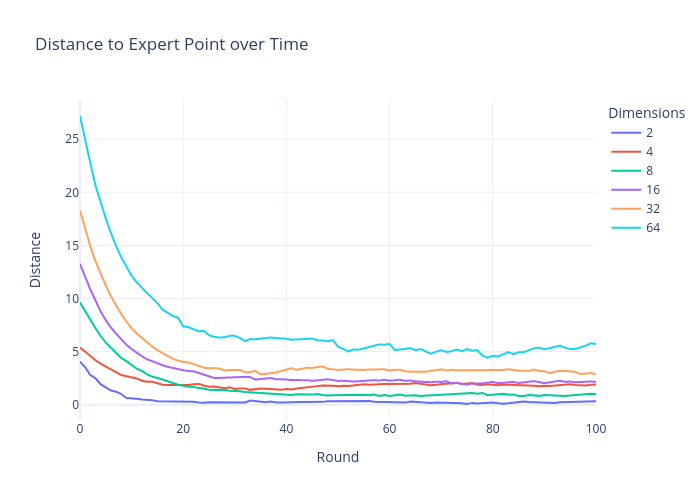
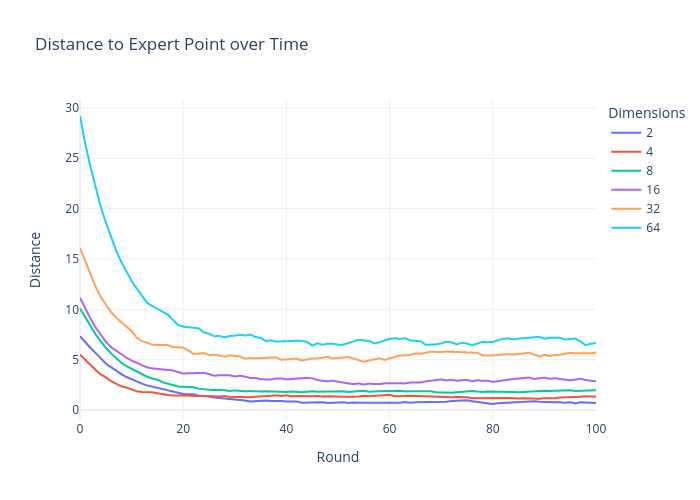
minor updates

Changed region(s): [[0.09, 0.21, 0.87, 0.81], [0.21, 0.6, 0.24, 0.63], [0.09, 0.81, 0.12, 0.84]]

diff --git a/graphing.py b/graphing.py
@@ -17,22 +17,17 @@ from copy import deepcopy
 NUM_USER_POINTS = 10
 NUM_OF_ROUNDS = 100
 DELTA = 0.1
+EXPERT_POINT_SUBSET_SIZE = 3
 
 # Initialization
 def initialize_points(dimension):
     model_point = np.random.uniform(0, 10, size= dimension)
     user_points = np.random.uniform(0, 10, size=(NUM_USER_POINTS, dimension))
 
-    # random subset of 5 user points
+    # expert point is centroid of random subset of user points
     users_shuffled = np.random.permutation(list(range(len(user_points))))
-    user_group = users_shuffled[:len(users_shuffled) // 2]
-    centroid = np.mean(user_points[user_group], axis=0)
-    expert_point = centroid
-
-
-    # expert_point = np.mean(user_points, axis=0)
-    # max_distance = np.max(np.linalg.norm(user_points - centroid, axis=1))
-    # expert_point = centroid + np.random.uniform(0, max_distance / 3, size=dimension)
+    user_group = users_shuffled[:EXPERT_POINT_SUBSET_SIZE]
+    expert_point = np.mean(user_points[user_group], axis=0)
     
     return model_point, expert_point, user_points
 
@@ -64,7 +59,7 @@ def plot_all_points_movement(model_point_history, user_points, expert_point):
     plt.grid(True)
     plt.show()
 
-def animate_all_points_movement(model_point_histories, user_points, expert_point):
+def animate_all_points_movement(model_point_histories, user_points, expert_point, colors=None):
     fig, ax = plt.subplots(figsize=(10, 7))
     ax.set_xlim(0, 10)
     ax.set_ylim(0, 10)
@@ -89,7 +84,8 @@ def animate_all_points_movement(model_point_histories, user_points, expert_point
         all_ys[i] = [point[1] for point in model_point_history]
         line, = ax.plot([], [], '-o', color='purple', alpha=0.6)
         lines[i] = line
-        point, = ax.plot([], [], 'o', alpha=0.8, markersize=10, label='Model Point')
+        color = None if colors is None else colors[i]
+        point, = ax.plot([], [], 'o', color=color, alpha=0.8, markersize=10, label='Model Point')
         points[i] = point
 
     # Initialization function
@@ -111,26 +107,6 @@ def animate_all_points_movement(model_point_histories, user_points, expert_point
 
     ani = FuncAnimation(fig, update, frames=NUM_OF_ROUNDS, init_func=init, blit=True, repeat=False)
     plt.show()
-
-
-# # old shapely value function
-#     # Compute actual Shapley values
-#     all_users = list(range(num_users))
-#     shapely_values = np.zeros(num_users)
-
-#     for user in range(num_users):
-#         # iterate over all subsets without user
-#         for subset in all_subsets(all_users, exclude=[user]):
-#             # compute value of subset
-#             subset_value = value_func(experts, users[list(subset)], aggregate)
-#             # subset_value = ValueFunction.dot_product(users[list(subset)])
-#             # compute value of subset with user
-#             subset_with_user_value = value_func(experts, users[list(subset) + [user]], aggregate)
-#             # compute marginal contribution of user
-#             marginal_contribution = subset_with_user_value - subset_value
-#             # update user value
-#             weight = factorial(len(subset)) * factorial(num_users - len(subset) - 1) / factorial(num_users)
-#             shapely_values[user] += weight * marginal_contribution
 
 def all_subsets(elements: Iterable, exclude: Iterable = []) -> Iterable:
     """Returns all subsets (of length > 0) of elements excluding those in exclude"""
@@ -190,17 +166,12 @@ def weighted_centroid(points, weights):
     return C
 
 def simulation(model_point, expert_point, user_points, use_real_shapley: bool = False) -> Tuple[list, np.ndarray, np.ndarray, list]:
-    # convert user_points to numpy array
     user_points = np.array(user_points)
     model_point_history = [model_point]
     if use_real_shapley:
         shapley_values = get_shapley_values(user_points, expert_point)
-        # normalize shapley values between 0 and 1
-        # shapley_values = (shapley_values - np.min(shapley_values)) / (np.max(shapley_values) - np.min(shapley_values))
     else:
-        # shapley values start all equal
         shapley_values = np.ones(len(user_points))
-        # shapley_values = np.ones(len(user_points)) / len(user_points)
 
     shapley_value_history: list = [shapley_values]
     for _ in range(NUM_OF_ROUNDS):
@@ -209,12 +180,10 @@ def simulation(model_point, expert_point, user_points, use_real_shapley: bool = 
         user_group_1 = users_shuffled[:len(users_shuffled) // 2]
         user_group_2 = users_shuffled[len(users_shuffled) // 2:]
 
-        # find weighted centroid of each group using normalized shapley values
-        ## sum of all "delta" vectors scaled by shapley values
         centroid_1 = weighted_centroid(user_points[user_group_1], shapley_values[user_group_1])
         centroid_2 = weighted_centroid(user_points[user_group_2], shapley_values[user_group_2])
 
-        # create two candidate points, moving towards each centroid (use numpy) (by 10% of the distance)
+        # create two candidate points, moving towards each centroid (use numpy) (by DELTA % of the distance)
         candidate_point_1 = model_point + DELTA * (centroid_1 - model_point)
         candidate_point_2 = model_point + DELTA * (centroid_2 - model_point)
 
@@ -222,12 +191,12 @@ def simulation(model_point, expert_point, user_points, use_real_shapley: bool = 
         diff = np.linalg.norm(candidate_point_1 - expert_point) - np.linalg.norm(candidate_point_2 - expert_point)
         if diff < 0:
             model_point = candidate_point_1
-            # if not use_real_shapley: # give user group 1 a point
-            #     shapley_values[user_group_1] += abs(diff)
+            if not use_real_shapley: # give user group 1 a point
+                shapley_values[user_group_1] += 1
         else:
             model_point = candidate_point_2
-            # if not use_real_shapley: # give user group 2 a point
-            #     shapley_values[user_group_2] += abs(diff)
+            if not use_real_shapley: # give user group 2 a point
+                shapley_values[user_group_2] += 1
         model_point_history.append(model_point)
         shapley_value_history.append(deepcopy(shapley_values))
     
@@ -277,7 +246,11 @@ def main():
     model_point, expert_point, user_points = initialize_points(2)
     model_point_history, _ = simulation(model_point, expert_point, user_points, use_real_shapley=False)
     model_point_history_real, shapley_value_history = simulation(model_point, expert_point, user_points, use_real_shapley=True)
-    animate_all_points_movement([model_point_history, model_point_history_real], user_points, expert_point)
+    animate_all_points_movement(
+        [model_point_history, model_point_history_real],
+        user_points, expert_point,
+        colors=['purple', 'orange'],
+    )
 
 
 def multiple_dimension(dims: List[int] = [2**i for i in range(1, 7)]):
